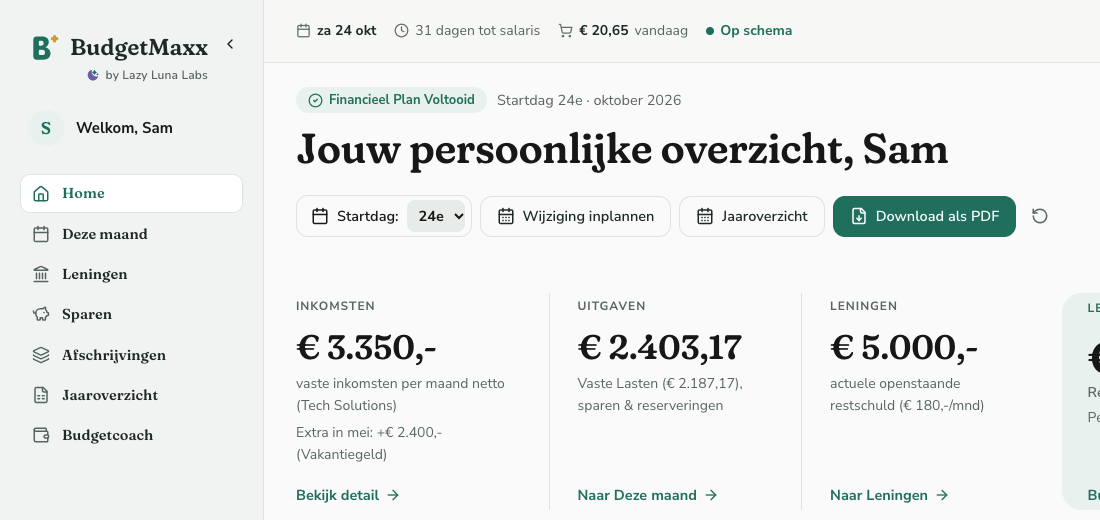
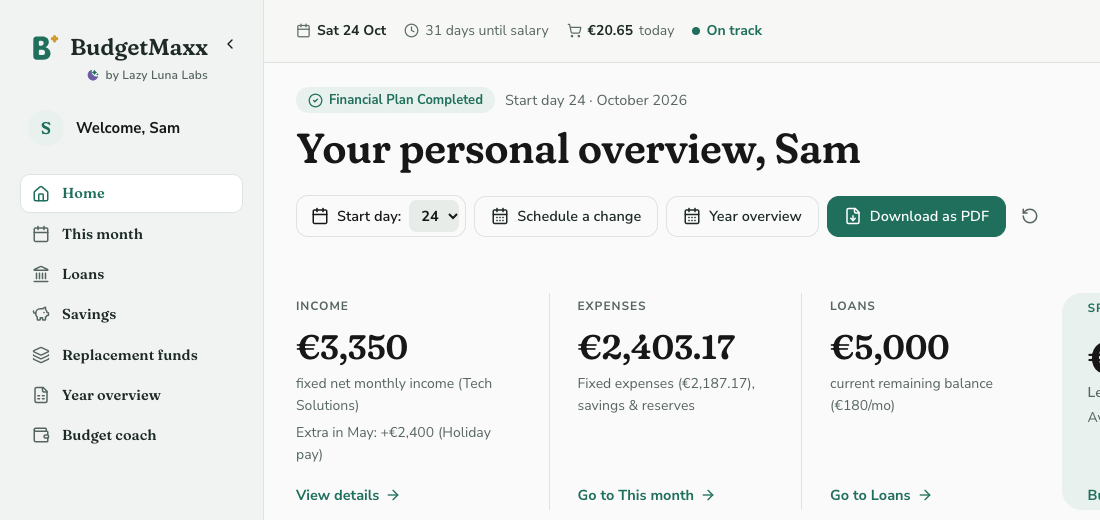
EN-pagina's: Engelse screenshots (app in het Engels, demoprofiel Sam)

diff --git a/en/budgetmaxx/index.html b/en/budgetmaxx/index.html
@@ -123,8 +123,8 @@
 <p><a class="btn" href="#beta">Become a beta tester</a></p>
 </div>
 <div class="devices">
-<div class="laptop"><img src="../../nl/budgetmaxx/img/hero-dashboard.png" width="1100" height="520" alt="Part of the BudgetMaxx dashboard for demo profile Sam: income, spending, loan and spending money in one overview"></div>
-<div class="phone"><img src="../../nl/budgetmaxx/img/hero-telefoon-jouwdag.png" width="780" height="1285" alt="The Your day pop-up on a phone: what comes in and goes out today"></div>
+<div class="laptop"><img src="img/hero-dashboard.png" width="1100" height="520" alt="Part of the BudgetMaxx dashboard for demo profile Sam: income, spending, loan and spending money in one overview"></div>
+<div class="phone"><img src="img/hero-telefoon-jouwdag.png" width="780" height="1285" alt="The Your day pop-up on a phone: what comes in and goes out today"></div>
 </div>
 </div></section>
 
@@ -191,20 +191,20 @@
 
 <section class="alt"><div class="w">
 <h2>What it looks like</h2>
-<p class="muted">Screenshots with the fictional demo profile "Sam". All amounts are made up. The screenshots show the app in Dutch; the app is also fully available in English. Scroll through the six screens, or click a tab.</p>
+<p class="muted">Screenshots with the fictional demo profile "Sam". All amounts are made up. The screenshots show the app in English; it is also available in Dutch. Scroll through the six screens, or click a tab.</p>
 <div class="story" id="story">
 <div class="steps">
-<article class="step on" data-i="0" id="stap1"><span class="k">Step 1 of 6</span><h3>Home / Dashboard</h3><p class="muted">Your whole month at a glance: income (&euro;3,350), spending, the outstanding loan and what you can still spend today, plus a timeline of planned payments.</p><figure class="shotf ph"><img src="../../nl/budgetmaxx/img/dashboard.png" width="1440" height="900" loading="lazy" alt="Dashboard with income, spending, outstanding loan and spending money for demo profile Sam"></figure><figure class="shotf ph tel"><img src="../../nl/budgetmaxx/img/telefoon-dashboard.png" width="780" height="1688" loading="lazy" alt="The dashboard on a phone screen"></figure></article>
-<article class="step" data-i="1" id="stap2"><span class="k">Step 2 of 6</span><h3>This month</h3><p class="muted">For each pay period you tick off what has come in and what has been paid. Sam can see straight away that &euro;2,583.17 still needs to be in the account for the open items.</p><figure class="shotf ph"><img src="../../nl/budgetmaxx/img/maand.png" width="1440" height="900" loading="lazy" alt="October monthly overview with salary, rent and fixed costs to tick off"></figure></article>
-<article class="step" data-i="2" id="stap3"><span class="k">Step 3 of 6</span><h3>Budget coach</h3><p class="muted">The Budget coach works out a daily budget from your pot: &euro;20.65 left today and &euro;144.52 per 7 days, until the next payday.</p><figure class="shotf ph"><img src="../../nl/budgetmaxx/img/budgetcoach.png" width="1440" height="900" loading="lazy" alt="Budget coach with &euro;20.65 left today and &euro;144.52 per 7 days"></figure></article>
-<article class="step" data-i="3" id="stap4"><span class="k">Step 4 of 6</span><h3>Your day</h3><p class="muted">A pop-up showing what comes in today (&euro;3,350) and what goes out (15 items, &euro;1,223 in total), where you can tick things off straight away.</p><figure class="shotf ph"><img src="../../nl/budgetmaxx/img/jouwdag.png" width="1440" height="900" loading="lazy" alt="Your day pop-up showing what comes in and goes out today"></figure><figure class="shotf ph tel"><img src="../../nl/budgetmaxx/img/telefoon-jouwdag.png" width="780" height="1688" loading="lazy" alt="The Your day pop-up on a phone screen"></figure></article>
-<article class="step" data-i="4" id="stap5"><span class="k">Step 5 of 6</span><h3>Loans</h3><p class="muted">A personal loan with &euro;5,000 still owed, 5.5% interest and an expected end date: debt-free in March 2029. With room for extra repayments.</p><figure class="shotf ph"><img src="../../nl/budgetmaxx/img/leningen.png" width="1440" height="900" loading="lazy" alt="Loans page with a personal loan of &euro;5,000, debt-free in March 2029"></figure></article>
-<article class="step" data-i="5" id="stap6"><span class="k">Step 6 of 6</span><h3>Year overview</h3><p class="muted">The whole year as a clear table, with every item per month. At the top are buttons for PDF and Excel (CSV).</p><figure class="shotf ph"><img src="../../nl/budgetmaxx/img/jaaroverzicht.png" width="1440" height="900" loading="lazy" alt="Year overview as a spreadsheet with every item per month"></figure></article>
+<article class="step on" data-i="0" id="stap1"><span class="k">Step 1 of 6</span><h3>Home / Dashboard</h3><p class="muted">Your whole month at a glance: income (&euro;3,350), spending, the outstanding loan and what you can still spend today, plus a timeline of planned payments.</p><figure class="shotf ph"><img src="img/dashboard.png" width="1440" height="900" loading="lazy" alt="Dashboard with income, spending, outstanding loan and spending money for demo profile Sam"></figure><figure class="shotf ph tel"><img src="img/telefoon-dashboard.png" width="780" height="1688" loading="lazy" alt="The dashboard on a phone screen"></figure></article>
+<article class="step" data-i="1" id="stap2"><span class="k">Step 2 of 6</span><h3>This month</h3><p class="muted">For each pay period you tick off what has come in and what has been paid. Sam can see straight away that &euro;2,583.17 still needs to be in the account for the open items.</p><figure class="shotf ph"><img src="img/maand.png" width="1440" height="900" loading="lazy" alt="October monthly overview with salary, rent and fixed costs to tick off"></figure></article>
+<article class="step" data-i="2" id="stap3"><span class="k">Step 3 of 6</span><h3>Budget coach</h3><p class="muted">The Budget coach works out a daily budget from your pot: &euro;20.65 left today and &euro;144.52 per 7 days, until the next payday.</p><figure class="shotf ph"><img src="img/budgetcoach.png" width="1440" height="900" loading="lazy" alt="Budget coach with &euro;20.65 left today and &euro;144.52 per 7 days"></figure></article>
+<article class="step" data-i="3" id="stap4"><span class="k">Step 4 of 6</span><h3>Your day</h3><p class="muted">A pop-up showing what comes in today (&euro;3,350) and what goes out (15 items, &euro;1,223 in total), where you can tick things off straight away.</p><figure class="shotf ph"><img src="img/jouwdag.png" width="1440" height="900" loading="lazy" alt="Your day pop-up showing what comes in and goes out today"></figure><figure class="shotf ph tel"><img src="img/telefoon-jouwdag.png" width="780" height="1688" loading="lazy" alt="The Your day pop-up on a phone screen"></figure></article>
+<article class="step" data-i="4" id="stap5"><span class="k">Step 5 of 6</span><h3>Loans</h3><p class="muted">A personal loan with &euro;5,000 still owed, 5.5% interest and an expected end date: debt-free in March 2029. With room for extra repayments.</p><figure class="shotf ph"><img src="img/leningen.png" width="1440" height="900" loading="lazy" alt="Loans page with a personal loan of &euro;5,000, debt-free in March 2029"></figure></article>
+<article class="step" data-i="5" id="stap6"><span class="k">Step 6 of 6</span><h3>Year overview</h3><p class="muted">The whole year as a clear table, with every item per month. At the top are buttons for PDF and Excel (CSV).</p><figure class="shotf ph"><img src="img/jaaroverzicht.png" width="1440" height="900" loading="lazy" alt="Year overview as a spreadsheet with every item per month"></figure></article>
 </div>
 <div class="stage" aria-hidden="false"><div class="stagewrap">
 <div class="tabs" role="tablist" aria-label="Screens"><button type="button" role="tab" aria-selected="true" data-go="0">Home</button><button type="button" role="tab" aria-selected="false" data-go="1">This month</button><button type="button" role="tab" aria-selected="false" data-go="2">Budget coach</button><button type="button" role="tab" aria-selected="false" data-go="3">Your day</button><button type="button" role="tab" aria-selected="false" data-go="4">Loans</button><button type="button" role="tab" aria-selected="false" data-go="5">Year overview</button></div>
-<div class="bframe"><div class="bbar"><i></i><i></i><i></i><span>BudgetMaxx</span></div><div class="bview"><img src="../../nl/budgetmaxx/img/dashboard.png" width="1440" height="900" alt="Dashboard with income, spending, outstanding loan and spending money for demo profile Sam" data-s="0" class="on"><img src="../../nl/budgetmaxx/img/maand.png" width="1440" height="900" loading="lazy" alt="October monthly overview with salary, rent and fixed costs to tick off" data-s="1"><img src="../../nl/budgetmaxx/img/budgetcoach.png" width="1440" height="900" loading="lazy" alt="Budget coach with &euro;20.65 left today and &euro;144.52 per 7 days" data-s="2"><img src="../../nl/budgetmaxx/img/jouwdag.png" width="1440" height="900" loading="lazy" alt="Your day pop-up showing what comes in and goes out today" data-s="3"><img src="../../nl/budgetmaxx/img/leningen.png" width="1440" height="900" loading="lazy" alt="Loans page with a personal loan of &euro;5,000, debt-free in March 2029" data-s="4"><img src="../../nl/budgetmaxx/img/jaaroverzicht.png" width="1440" height="900" loading="lazy" alt="Year overview as a spreadsheet with every item per month" data-s="5"></div></div>
-<div class="pframe" id="pf"><div class="pview"><img src="../../nl/budgetmaxx/img/telefoon-dashboard.png" width="780" height="1688" loading="lazy" alt="The dashboard on a phone screen" data-s="0" class="on"><img src="../../nl/budgetmaxx/img/telefoon-jouwdag.png" width="780" height="1688" loading="lazy" alt="The Your day pop-up on a phone screen" data-s="3"></div></div>
+<div class="bframe"><div class="bbar"><i></i><i></i><i></i><span>BudgetMaxx</span></div><div class="bview"><img src="img/dashboard.png" width="1440" height="900" alt="Dashboard with income, spending, outstanding loan and spending money for demo profile Sam" data-s="0" class="on"><img src="img/maand.png" width="1440" height="900" loading="lazy" alt="October monthly overview with salary, rent and fixed costs to tick off" data-s="1"><img src="img/budgetcoach.png" width="1440" height="900" loading="lazy" alt="Budget coach with &euro;20.65 left today and &euro;144.52 per 7 days" data-s="2"><img src="img/jouwdag.png" width="1440" height="900" loading="lazy" alt="Your day pop-up showing what comes in and goes out today" data-s="3"><img src="img/leningen.png" width="1440" height="900" loading="lazy" alt="Loans page with a personal loan of &euro;5,000, debt-free in March 2029" data-s="4"><img src="img/jaaroverzicht.png" width="1440" height="900" loading="lazy" alt="Year overview as a spreadsheet with every item per month" data-s="5"></div></div>
+<div class="pframe" id="pf"><div class="pview"><img src="img/telefoon-dashboard.png" width="780" height="1688" loading="lazy" alt="The dashboard on a phone screen" data-s="0" class="on"><img src="img/telefoon-jouwdag.png" width="780" height="1688" loading="lazy" alt="The Your day pop-up on a phone screen" data-s="3"></div></div>
 </div></div>
 </div>
 </div></section>
